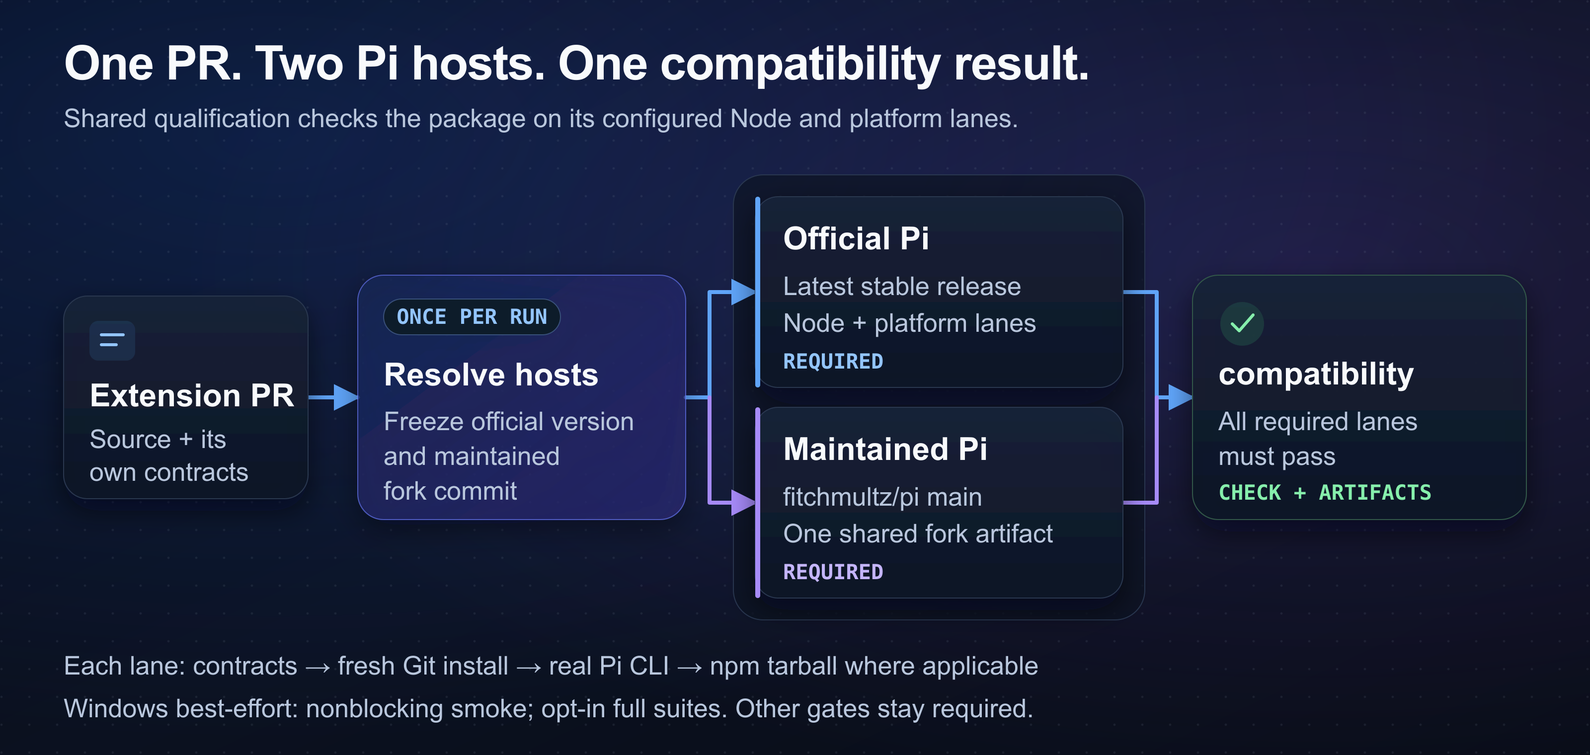
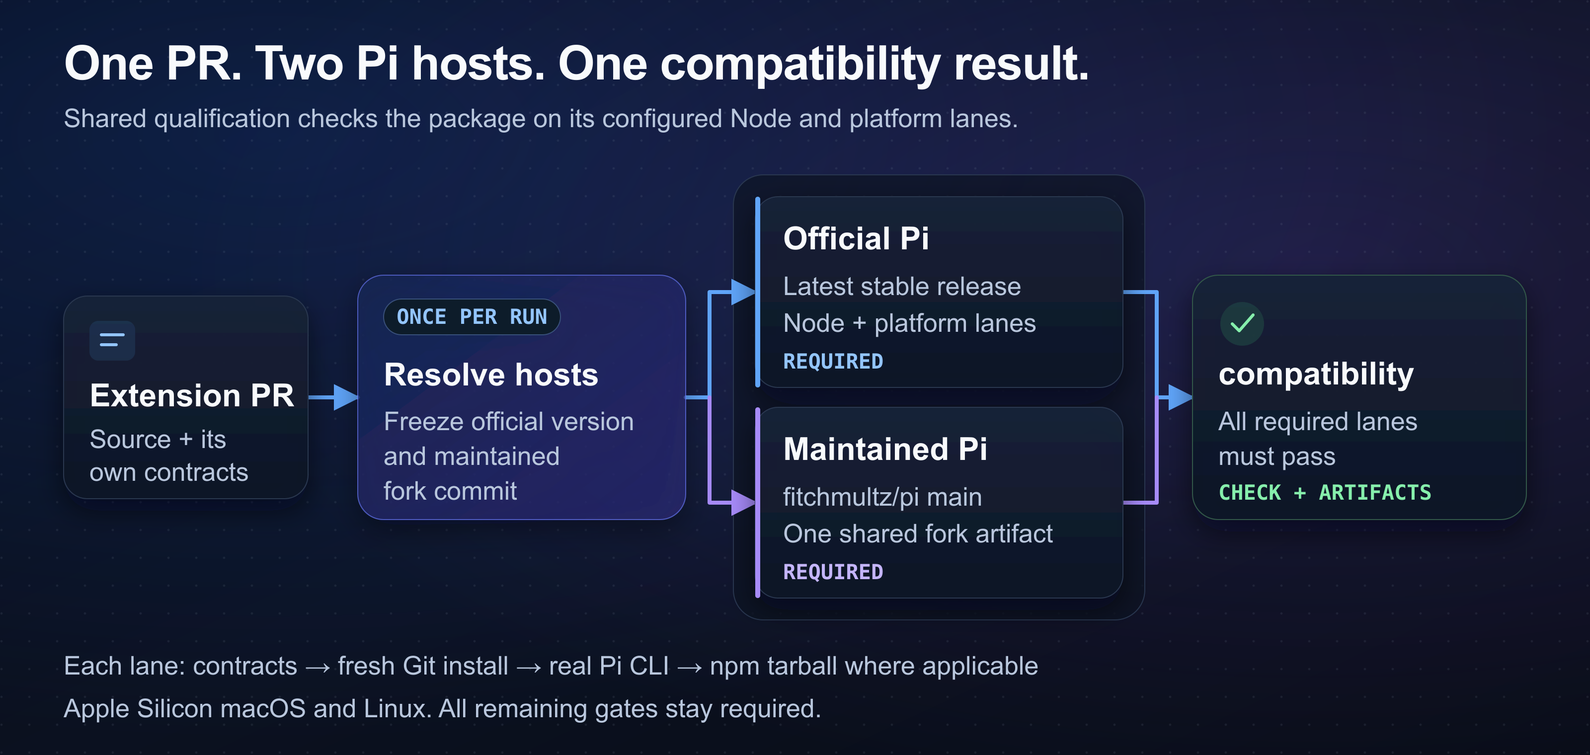
chore: limit platform qualification to Apple Silicon macOS and Linux (#170)
* chore: limit platform qualification to Apple Silicon macOS and Linux

* docs: refresh rendered platform policy and trim release summary

Changed region(s): [[0.0312, 0.9276, 0.6562, 0.9586]]

diff --git a/docs/qualification.md b/docs/qualification.md
@@ -8,7 +8,7 @@ The following details describe host preparation, platform gates, retained eviden
 
 By default, every individual package PR, fleet run, canary and npm release qualifies the **latest stable official Pi** and the **latest maintained `fitchmultz/pi` main**. This automation repository [selects fleet runs by change scope](development.md#ci-scope); an intentional skip for documentation, policy, npm release automation or validator-only changes is not fleet qualification. Changes to anything the fleet executes, and to any path without a fast path, still require the full fleet on PRs, manual dispatches and the daily canary; pushes to `main` intentionally skip the fleet. An explicit immutable `fork-ref` qualifies that candidate instead. There is no hard-coded host-version inventory or old-baseline comparison. The canonical `resolve-hosts.yml`/`resolveHostTargets` resolver resolves current identities once per run, then all jobs reuse the exact official version and fork SHA. A newly published host cannot silently change a later job's graph. The resolver verifies publication of the whole official Pi workspace cohort before scheduling checks; partial publication fails closed rather than falling back to an older release.
 
-The reusable workflow's `host` input accepts only `both` (default) or `fork`; other values fail resolution. Normal extension PRs and the fleet canary leave it at `both`, preserving latest official/fork qualification for all applicable packages across all 18 repositories. A fork reverse-dependency caller uses `host: fork` with `repository: all`. That mode qualifies the same 18 Pi-host-qualified fleet packages against the exact `fork-ref` and retains every required Node/platform lane; native Windows is optional as described below. Fork-only selection does not read candidate manifests for host selection or query/preflight official npm metadata (even if `official-version` is supplied). The former standalone CLI (`pi-evidence`) and extensions `pi-local-agents-only`, [`pi-edit-session-in-place`](https://github.com/fitchmultz/pi-edit-session-in-place), `pi-verbosity-control`, `pi-workflows`, `pi-zai-agents`, `pi-tool-duration`, `ponytail` and `pi-todo-list` are retired from qualification, canary and npm-release planning. Their archived GitHub repositories retain their history; existing npm versions remain published. Unrelated official-host failures therefore do not block fork changes.
+The reusable workflow's `host` input accepts only `both` (default) or `fork`; other values fail resolution. Normal extension PRs and the fleet canary leave it at `both`, preserving latest official/fork qualification for all applicable packages across all 18 repositories. A fork reverse-dependency caller uses `host: fork` with `repository: all`. That mode qualifies the same 18 Pi-host-qualified fleet packages against the exact `fork-ref` and retains every required Node/platform lane. Fork-only selection does not read candidate manifests for host selection or query/preflight official npm metadata (even if `official-version` is supplied). The former standalone CLI (`pi-evidence`) and extensions `pi-local-agents-only`, [`pi-edit-session-in-place`](https://github.com/fitchmultz/pi-edit-session-in-place), `pi-verbosity-control`, `pi-workflows`, `pi-zai-agents`, `pi-tool-duration`, `ponytail` and `pi-todo-list` are retired from qualification, canary and npm-release planning. Their archived GitHub repositories retain their history; existing npm versions remain published. Unrelated official-host failures therefore do not block fork changes.
 
 CI installs the reviewed npm version from `package.json#packageManager` on every Node baseline; routine updates to that metadata are reviewed manually. Each host gets its own source-bound production graph through native `npm ci --ignore-scripts --omit=dev --include=optional`. Official preparation verifies the exact release's GitHub installer manifest/lock against GitHub asset digests, vendor `SHA256SUMS` and the immutable release tag's source files. It verifies the complete Pi cohort's registry declarations and fills only its prepublication lock entries' missing published integrities; third-party resolutions, the vendor's overrides and optional platform dependencies remain unchanged. Missing or mismatched publication fails closed, with no older-release fallback or fork-lock substitution.
 
@@ -26,30 +26,26 @@ Before Linux `apt-get` setup, shared qualification and release preparation run `
 
 The Linux `pi-agent-skills` lanes install the same native prerequisites as the skills repository's own CI: digest-checked D2 and PMD, pinned `setup-uv`, librsvg, jq and a Java runtime. A native command/version preflight runs before qualification, and tool binaries remain available through PATH under the isolated HOME. The code-smells contracts require uv and PMD; missing D2 or librsvg would silently skip renderer checks. These package-specific prerequisites apply only to skills lanes and do not change host selection or relax any contracts.
 
-Package contract commands have a 10-minute watchdog by default. Posthorse's Linux and macOS commands have a 20-minute budget for pinned native checker compilation: the cold Rust and Go builds alone took 5m14s and 5m19s on the hosted Linux runner, before its contract tests. Apply Edits retains 20 minutes on Linux and uses 30 minutes (1800000ms) on macOS for the whole contract command, including cold Rust/Go preparation, policy/lint/format/typecheck, the full test suite and pack check. Posthorse, Apply Edits, Subagents and Browser lanes install Go 1.27.1 without a toolchain cache. Only Posthorse and Apply Edits install Rust 1.99.0 with llvm-tools, without a toolchain cache; they put the physical Rust toolchain's bin directory on PATH so compilation remains available under qualification's isolated HOME rather than relying on rustup's home configuration. The fleet inventory gives Browser's Linux and macOS contract commands 30 minutes, matching its maintained full-CI envelope for cold Go quality-checker preparation, the full serial suite and package smoke; its Windows contract command retains 45 minutes. Both latest-host Linux lanes hit the former 15-minute outer command watchdog with partial TAP output and no final counts; that evidence does not identify an inner build or assertion hang or prove the new budget sufficient. Browser's non-Windows qualification jobs allow 45 minutes: 30 for contracts plus 15 for host/development preparation and consumer checks. Apply Edits' macOS job also allows 45 minutes: 30 for the whole contract command plus 15 for setup, host/development preparation, consumer checks and finalization. Browser's Windows job retains a 70-minute limit and Cursor's Windows job 35 minutes for cold installation and the remaining consumer checks; Subagents jobs have the composed budget below; other jobs retain 25 minutes. The Windows qualification step uses native timeouts of 60 minutes for Browser, 25 for Cursor and 15 for other packages, leaving 10 minutes within the unchanged job ceilings for setup, cancellation settlement (up to five minutes) and artifact upload. A step-only timeout is a failed diagnostic covered by the Windows best-effort policy; job/global cancellation still fails closed. Non-Windows steps retain GitHub's default 360-minute ceiling, so their existing job and contract limits remain controlling. Before qualification, CI writes actual lane inputs to `lane-inputs.txt` and streams emitted stdout/stderr to `qualification.log` without hiding command failure. The existing always-run upload can retain these partial files after an ordinary step timeout; they are not completed qualification or host provenance, and a hard kill can prevent finalization, reports, probes or artifact upload. These are whole-command, whole-step and whole-job CI budgets; individual tests and production deadlines remain unchanged. Each qualification receipt records the selected command budget.
+Package contract commands have a 10-minute watchdog by default. Posthorse's Linux and macOS commands have a 20-minute budget for pinned native checker compilation: the cold Rust and Go builds alone took 5m14s and 5m19s on the hosted Linux runner, before its contract tests. Apply Edits retains 20 minutes on Linux and uses 30 minutes (1800000ms) on macOS for the whole contract command, including cold Rust/Go preparation, policy/lint/format/typecheck, the full test suite and pack check. Posthorse, Apply Edits, Subagents and Browser lanes install Go 1.27.1 without a toolchain cache. Only Posthorse and Apply Edits install Rust 1.99.0 with llvm-tools, without a toolchain cache; they put the physical Rust toolchain's bin directory on PATH so compilation remains available under qualification's isolated HOME rather than relying on rustup's home configuration. The fleet inventory gives Browser's Linux and macOS contract commands 30 minutes, matching its maintained full-CI envelope for cold Go quality-checker preparation, the full serial suite and package smoke. Both latest-host Linux lanes hit the former 15-minute outer command watchdog with partial TAP output and no final counts; that evidence does not identify an inner build or assertion hang or prove the new budget sufficient. Browser's qualification jobs allow 45 minutes: 30 for contracts plus 15 for host/development preparation and consumer checks. Apply Edits' macOS job also allows 45 minutes: 30 for the whole contract command plus 15 for setup, host/development preparation, consumer checks and finalization. Subagents jobs have the composed budget below; other jobs retain 25 minutes. Qualification steps retain GitHub's default 360-minute ceiling, so their existing job and contract limits remain controlling. Before qualification, CI writes actual lane inputs to `lane-inputs.txt` and streams emitted stdout/stderr to `qualification.log` without hiding command failure. The existing always-run upload can retain these partial files after an ordinary step timeout; they are not completed qualification or host provenance, and a hard kill can prevent finalization, reports, probes or artifact upload. These are whole-command, whole-step and whole-job CI budgets; individual tests and production deadlines remain unchanged. Each qualification receipt records the selected command budget.
 
 Apply Edits' required official/macOS lane in source CI `38007300942` exhausted the former 20-minute command budget after a 589-pass prefix, without final counts or an assertion failure. A completed same-source/official-host control took 12m26s, with 685 tests, 680 passes, five platform skips, no failures/cancellations, pack check and fresh Git/CLI consumer proof. Cold Rust compilation took 9m29s in the failed lane versus 5m39s in that control; 190 shared quality probes were median 1.644× slower. This strongly supports cumulative cold/slow-runner budget pressure, but does not prove the historical interleaving or exclude a late hang, and the new allowance does not guarantee qualification. Contract stdout/stderr remain buffered and are published after the command; the existing CI `tee` captures emitted parent output without sharing its endpoint with contract descendants.
 
 Subagents' Linux and macOS contract commands have a 59-minute budget (3540000ms). The explicit sequential recipe allows 41 minutes for CI (quality/native preparation 15 + build/package 5 + install smokes 5 + integration 15 + settlement 1), then 17 minutes for editor preparation/metadata and native package smoke (5 + 5 + 1 + 5 + 1), plus one minute for outer settlement. Its reusable qualification job allows 120 minutes: contract/settlement 59 + host/development preparation 30 + production installs/smokes 15 + fork/tooling 15 + final settlement 1. These limits enclose the composed recipe; they do not certify an unmerged process-lifecycle implementation or replace current required qualification. Subagents' unit 300000ms, integration 900000ms, native 110-second controls and production/assertion deadlines remain unchanged.
 
-Linux qualification uses private `/var/tmp/pc-*` roots to avoid the Ubuntu 26 `/tmp` quota that stopped native Go compilation before tests; macOS keeps short `/tmp` roots for Unix sockets, and Windows keeps its native temporary directory. Each qualification owns `GOMODCACHE` under its root. Finalization attempts probe publication, then uses `go clean -modcache` to remove Go's read-only extracted modules before deleting that root. Copy and cleanup failures fail qualification while preserving the original primary error and recording any secondary errors in operation order. `qualification.json` is written after finalization, so cleanup failure cannot leave a passing report. Ambient Go caches are neither reused nor cleaned.
+Linux qualification uses private `/var/tmp/pc-*` roots to avoid the Ubuntu 26 `/tmp` quota that stopped native Go compilation before tests; macOS keeps short `/tmp` roots for Unix sockets. Each qualification owns `GOMODCACHE` under its root. Finalization attempts probe publication, then uses `go clean -modcache` to remove Go's read-only extracted modules before deleting that root. Copy and cleanup failures fail qualification while preserving the original primary error and recording any secondary errors in operation order. `qualification.json` is written after finalization, so cleanup failure cannot leave a passing report. Ambient Go caches are neither reused nor cleaned.
 
 Posthorse qualifies its native compaction-based rollover, recovery history and retain-none behavior on both current hosts; it does not require retired fork checkpoint APIs. The kit's Unix terminal contract exercises the current fork's managed launcher restart; its legacy multi-session helper is not activated inside that launcher.
 
-**Native Windows is best-effort (owner decision, October 22, 2026).** Required qualification retains all 18 repositories and 56 Linux/macOS lanes, including 28 fork lanes. Normal PRs, pushes, scheduled canaries, default manual runs and unconfigured reusable callers omit the eight full Windows diagnostic lanes. The small Windows environment smoke check remains visible and nonblocking. Known Windows failures are unresolved; omitted, failed or unavailable Windows checks are not Windows passes. Linux/macOS, Node floors, host identity, consumer artifacts and the three owner-designated final reviews remain required.
+Supported and tested platforms are Apple Silicon macOS and Linux. Qualification retains all 18 repositories and 56 lanes, including 28 fork lanes.
 
-For a Windows-specific change or reported problem, explicitly set the existing `waived-platforms` boolean to `true` when dispatching `Automation CI` or `Pi release canary`, or in a reusable-workflow caller. This adds all eight configured Windows lanes (64 total; 32 fork lanes) and retains their actual failures and artifacts without making Windows required. For example: `gh workflow run ci.yml --repo fitchmultz/.github --ref main -f waived-platforms=true`. The legacy input/environment names remain compatible; `WAIVED_PLATFORMS` and the reusable input now default to `false`. Pinned callers retain their pinned revision's behavior until a reviewed update. This policy supersedes the temporary Windows waiver; reinstating a required Windows gate needs a separate explicit support-policy decision.
-
-Historical support floors and locked development dependencies do not select validation hosts. Node/OS lanes are selected by the fleet and existing repository-specific workflows. Additional platform lanes use the latest Node 24 release; the primary platform also tests the declared Node floor. Native `setup-node` version resolution checks for the latest release matching each selector rather than accepting an older runner-cache entry; exact floor selectors remain exact. Routine checks use empty profiles and no provider credentials. These results do not certify live browser, Cursor, Oracle, OAuth or desktop operations. Those existing release gates remain separate when a shipped change touches their behavior. An unavailable platform must be recorded as unqualified or explicitly waived, never counted as passed.
-
-Windows jobs initialize `PSModulePath` through the runner's native PowerShell shell (`pwsh`) and carry its value into bash using GitHub's environment file. Isolation retains that native module path alongside Windows runtime variables; HOME, configuration and temp roots remain private, without inherited credentials. The diagnostic `windows-environment` self-check uses the same setup and runs a real `Get-Process` identity query under that isolation via bash. It warms ambient PowerShell once to separate cold CLR startup from the environment regression, then enforces the consumer's 5-second query bound. The `automation` aggregate excludes this best-effort native diagnostic; its outcome is never presented as required Windows qualification.
+Historical support floors and locked development dependencies do not select validation hosts. Node/OS lanes are selected by the fleet and existing repository-specific workflows. Additional platform lanes use the latest Node 24 release; the primary platform also tests the declared Node floor. Native `setup-node` version resolution checks for the latest release matching each selector rather than accepting an older runner-cache entry; exact floor selectors remain exact. Routine checks use empty profiles and no provider credentials. These results do not certify live browser, Cursor, Oracle, OAuth or desktop operations. Those existing release gates remain separate when a shipped change touches their behavior. An unavailable platform must be recorded as unqualified, never counted as passed.
 
 ## Results and the maintenance loop
 
 `compatibility` is the stable aggregate job. It requires resolution, the fork artifact when applicable, and every required matrix lane. Cancellation, missing jobs and required-lane failures do not become successful qualification. GitHub checks and job summaries show the result; `qualification-*` artifacts contain per-lane provenance, failures, consumer CLI output and tested npm tarballs.
 
-The scheduled `Pi release canary` checks all default branches against the latest stable release and the maintained fork, including the existing owned npm releases. It uses Actions concurrency and keeps exactly one native GitHub issue per affected repository, covering both official and fork hosts. Each run updates that issue with the latest lanes and closes it once every required lane for the repository passed with complete evidence; explicitly requested Windows lanes are listed as best-effort diagnostics but do not keep an issue open. Older per-host/per-version issues for the same repository are folded into the single issue and closed. A failed runner without package evidence gets an infrastructure issue, closed by the next successful fleet run. The canary creates no repair PR, publishes nothing, and never updates a user's Pi installation.
+The scheduled `Pi release canary` checks all default branches against the latest stable release and the maintained fork, including the existing owned npm releases. It uses Actions concurrency and keeps exactly one native GitHub issue per affected repository, covering both official and fork hosts. Each run updates that issue with the latest lanes and closes it once every required lane for the repository passed with complete evidence. Older per-host/per-version issues for the same repository are folded into the single issue and closed. A failed runner without package evidence gets an infrastructure issue, closed by the next successful fleet run. The canary creates no repair PR, publishes nothing, and never updates a user's Pi installation.
 
 Retirement of removed fleet entries is restricted to runs whose `GITHUB_REF` matches the automation repository's current default branch, read by the reporter from GitHub's repository metadata API rather than the trigger's webhook payload. Scheduled and manually dispatched runs use the same check. Candidate-branch dispatches and runs with missing branch context never retire trackers. Normal evidence reporting is unchanged.
 
-Repairs use the repository's ordinary PR process. A fixture or host-selection failure is repaired there; a product failure gets a focused regression and source fix. The automation's own native tests deliberately introduce factory/startup failures and require the real bundled CLI to reject them, proving that the gate cannot pass solely because a process started. Metadata tests cover incomplete publication and exact cohort selection; resolver-entrypoint tests cover default and fork-only lanes, source refs and fail-closed selection with mocked external fetches; report tests cover one issue per repository across hosts, legacy-issue consolidation, best-effort diagnostics and complete-evidence closure.
+Repairs use the repository's ordinary PR process. A fixture or host-selection failure is repaired there; a product failure gets a focused regression and source fix. The automation's own native tests deliberately introduce factory/startup failures and require the real bundled CLI to reject them, proving that the gate cannot pass solely because a process started. Metadata tests cover incomplete publication and exact cohort selection; resolver-entrypoint tests cover default and fork-only lanes, source refs and fail-closed selection with mocked external fetches; report tests cover one issue per repository across hosts, legacy-issue consolidation and complete-evidence closure.

diff --git a/docs/development.md b/docs/development.md
@@ -50,11 +50,11 @@ Documentation (`README.md`, `docs/`, `.github/readme/`) and the two Renovate JSO
 
 npm release automation does not need fleet qualification, because no fleet lane executes it. `releaseAutomation` in [`scripts/ci.mjs`](../scripts/ci.mjs) lists the exact paths: the `npm-release*.yml` workflows, the `npm-publish` and `npm-version-candidate-review` actions, the release scripts (`npm-release.mjs`, `npm-release-core.mjs`, `npm-package.mjs`, `npm-version.mjs`, `npm-remediation.mjs`, `npm-remediation-prompt.mjs` and `release-fetch.mjs`) and their tests and fixtures. Release automation can import qualification modules; nothing the fleet runs can depend on release automation. A unit test starts from the reusable workflows that `Automation CI` calls, follows the scripts they run and every file those scripts import or copy, and fails when one of those files is on a fast path. A release file that is not in the list, such as a new or renamed one, requires the fleet until a reviewed change adds it.
 
-Every other path requires the full 18-repository fleet. That includes the qualification scripts and their tests, `fleet.json`, the qualification and CI workflows, the scope selector and unknown paths. The fleet is 56 Linux and macOS lanes by default on PRs, manual dispatches and the daily canary; pushes to `main` skip the fleet as an intentional smoke-only join. Full native Windows qualification is best-effort and requires an explicit `waived-platforms: true` opt-in, adding eight diagnostic lanes (64 total). Deleting or renaming runtime files still requires the fleet. PR comparisons use the Git merge base; pushes compare the previous commit with the pushed head. Missing refs or failed scope/local checks cannot produce a passing `automation` result. The Windows environment diagnostic runs only on the full path and remains best-effort and nonblocking.
+Every other path requires the full 18-repository fleet. That includes the qualification scripts and their tests, `fleet.json`, the qualification and CI workflows, the scope selector and unknown paths. The fleet is 56 Linux and macOS lanes by default on PRs, manual dispatches and the daily canary; pushes to `main` skip the fleet as an intentional smoke-only join. Deleting or renaming runtime files still requires the fleet. PR comparisons use the Git merge base; pushes compare the previous commit with the pushed head. Missing refs or failed scope/local checks cannot produce a passing `automation` result.
 
 The `scope` job prints its decision and writes it to the job summary. The reason names the fast paths that covered every changed path, or lists the changed paths that required the fleet.
 
-An intentional fleet skip is **not** qualification of package code or a new Pi host. Individual package callers and the canary still qualify all required lanes. Manual `Automation CI` dispatches always qualify the full required fleet and a supplied candidate fork; Windows diagnostics are included only when explicitly requested. GitHub's native account/runner limits govern parallelism; the reusable workflow does not impose an additional six-lane cap.
+An intentional fleet skip is **not** qualification of package code or a new Pi host. Individual package callers and the canary still qualify all required lanes. Manual `Automation CI` dispatches always qualify the full required fleet and a supplied candidate fork. GitHub's native account/runner limits govern parallelism; the reusable workflow does not impose an additional six-lane cap.
 
 Inspect a committed change locally:
 

diff --git a/docs/integration.md b/docs/integration.md
@@ -30,7 +30,7 @@ This setup is for a repository already represented in [`fleet.json`](../fleet.js
    Leave `host` at its default `both` for normal extension PRs. The workflow selects the caller's repository and source commit by default.
 3. Open a PR, inspect its compatibility aggregate, and require the repository's actual successful aggregate check in branch protection. The displayed check name depends on the caller's job name.
 
-Keep the workflow revision and `automation-ref` together. [Qualification](qualification.md) explains exact host selection, lane budgets, artifacts and the Windows best-effort policy. [npm releases](npm-releases.md) covers the separate publishing setup.
+Keep the workflow revision and `automation-ref` together. [Qualification](qualification.md) explains exact host selection, lane budgets, artifacts. [npm releases](npm-releases.md) covers the separate publishing setup.
 
 ## Repository callers
 
@@ -67,7 +67,7 @@ No `.github/dependabot.yml` is needed for security updates. Do not add a version
 ## Rollout and administration
 
 1. Qualify the full candidate fleet. `PI_COMPATIBILITY_SOURCE_REF` may temporarily select a coordinated rollout branch in this repository and an integrated fork caller; clear it after the extension branches merge.
-   To qualify an unmerged fork candidate, dispatch `Automation CI` at the reviewed automation branch with `fork-ref` set to its full commit SHA and `source-ref: main` after changed package PRs merge (or one coordinated source branch present in every fleet repository). The run freezes latest official and candidate fork identities and qualifies all 18 repositories across 56 required Linux/macOS lanes, including 28 fork lanes. Native Windows is best-effort: explicitly set `waived-platforms: true` to add its eight diagnostic lanes (64 total, 32 fork lanes); ordinary dispatches and the daily canary omit them. An empty `fork-ref` still resolves maintained main. This dispatch does not activate code or update canary issues.
+   To qualify an unmerged fork candidate, dispatch `Automation CI` at the reviewed automation branch with `fork-ref` set to its full commit SHA and `source-ref: main` after changed package PRs merge (or one coordinated source branch present in every fleet repository). The run freezes latest official and candidate fork identities and qualifies all 18 repositories across 56 required Linux/macOS lanes, including 28 fork lanes. An empty `fork-ref` still resolves maintained main. This dispatch does not activate code or update canary issues.
 2. Obtain the required owner-designated reviews before merging or activating the rollout. Publish the shared workflow's version tag only after approval, then keep callers pinned to its reviewed commit.
 3. Enable native GitHub Dependabot security updates for the selected repositories. Keep Renovate disabled and do not enable scheduled version updates or a second dependency updater. When switching an existing repository, close obsolete Renovate PRs and Dependency Dashboard issues after activation; preserve human-modified work and leave archived repositories untouched.
 4. Require each repository's actual successful aggregate compatibility check on its default branch, preserving existing protection and useful required checks. A fork integration must include reverse-dependency qualification in its `build-check-test` aggregate.

diff --git a/docs/npm-releases.md b/docs/npm-releases.md
@@ -19,7 +19,7 @@ Version PRs and their release notes are generated automatically; maintainers can
 
 - **pi-subagents:** its packed entry must load through real Pi and exercise an actual native child session on the selected hosts; a loader-only smoke is not equivalent.
 - **pi-agent-browser-native:** its own release verification includes the configured-source Pi lifecycle and required macOS/Ubuntu Crabbox smoke; its release instructions also require real-site dogfood. The shared host checks do not replace them.
-- **pi-oracle:** its `release:check` requires eight actual ChatGPT preset jobs for the exact post-merge HEAD and its doctor-first macOS, Ubuntu and native Windows platform suites. A PR-head run or offline test is not equivalent.
+- **pi-oracle:** its `release:check` requires eight actual ChatGPT preset jobs for the exact post-merge HEAD. A PR-head run or offline test is not equivalent.
 - **pi-cursor-sdk:** its release instructions require a deep maintainability review of the exact release diff, with findings addressed and review repeated until clear, in addition to applicable verification.
 - **pi-zai-mcp:** its release and completion checks include the production `npm audit`, which is not part of `check:compat`.
 - **pi-codex-goal:** release-sensitive changes require interactive real-model `/goal` session evidence, which offline compatibility does not provide.

diff --git a/README.md b/README.md
@@ -31,7 +31,7 @@ Each extension lane runs package contracts, installs a fresh Git checkout with p
 
 The checks use empty profiles without provider credentials. Keep each package's separate browser, desktop, and paid-provider release checks.
 
-**Native Windows is best-effort.** Normal PRs, releases and the daily canary require Linux/macOS, not full Windows qualification. A small Windows environment smoke check remains nonblocking; deeper Windows suites are explicit opt-in diagnostics. Their real failures remain unresolved, and a passing required check does not certify Windows support. The [qualification reference](docs/qualification.md) records the policy, opt-in, host preparation, lane settings and command budgets.
+Supported and tested platforms are Apple Silicon macOS and Linux. The [qualification reference](docs/qualification.md) records host preparation, lane settings and command budgets.
 
 ## Results and failures
 
